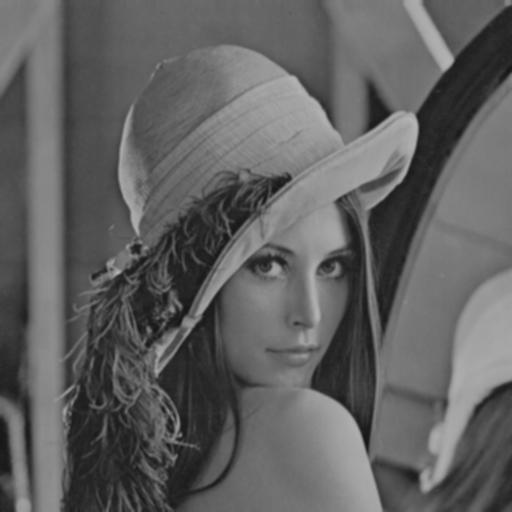
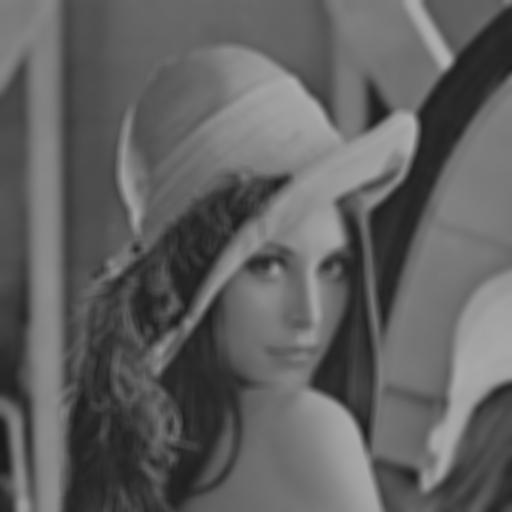
Bug fixes and separate plots
Plots were unclear.. So made them 2 plots per figure.

diff --git a/Exercise/Assignment1/helper_functions/convolution.m b/Exercise/Assignment1/helper_functions/convolution.m
@@ -7,7 +7,7 @@ padded_image = do_padding(I,kernel,border_treatment);
 n_rowsPadded = floor(kr/2);
 n_colPadded = floor(kc/2);
 %kernel = kernel'
-kernel = kernel(:);
+%kernel = kernel(:);
 %kernel = [kernel(1,:)';kernel(2,:)';kernel(3,:)']
 [paddedImgR, paddedImgC] = size(padded_image);
 
@@ -16,8 +16,9 @@ convResult = zeros(paddedImgR-2*n_rowsPadded ,paddedImgC -2*n_colPadded );
 for rows = 1 + n_rowsPadded : paddedImgR - n_rowsPadded
     for cols = 1 + n_colPadded : paddedImgC - n_colPadded
         roi = double(padded_image(rows - n_rowsPadded : rows + n_rowsPadded , cols - n_colPadded : cols + n_colPadded));
-        roi = roi(:);
-        sumconv = sum(kernel.*roi);
+        %roi = roi(:);
+        sumconv = kernel.*roi;
+        sumconv = sum(sumconv(:));
         
        
      %tempConv =   ExtractROI(padded_image(rows:rows+2*floor(kr/2),cols:cols+2*floor(kc/2)));

diff --git a/Exercise/Assignment1/Ex1.m b/Exercise/Assignment1/Ex1.m
@@ -1,9 +1,10 @@
 % matlab code to find convolution of an image using mean filter
-
+addpath('helper_functions');
 I = imread('lena.gif') ; % read image
 [rows,columns] = size(I) ;
 
-kernel = ones(3);
+kernel = ones(9);
+kernel = kernel./sum(sum(kernel)); %Normalization
 [kr, kc] = size(kernel);
 
 figure(1)

diff --git a/Exercise/Assignment1/helper_functions/gaussian.m b/Exercise/Assignment1/helper_functions/gaussian.m
@@ -3,6 +3,6 @@ function [ G ] = gaussian( u,v,sigma )
 %   Detailed explanation goes here
 G = (1/(2*pi*sigma^2))*exp(-0.5*(u.^2 + v.^2)/sigma^2);
 %G = exp(-(u.^2 + v.^2)/(2*sigma^2));
-%G = 1/(sum(G(:))) * G
+G = G./(sum(G(:))); %Normalization
 end
 
